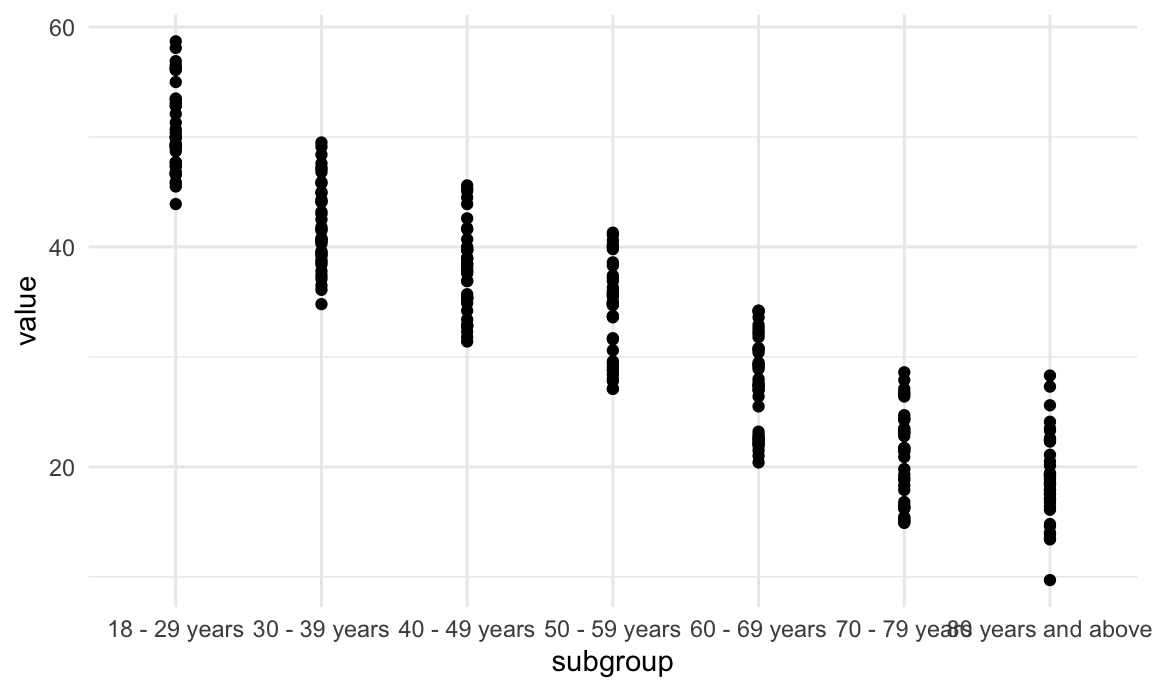
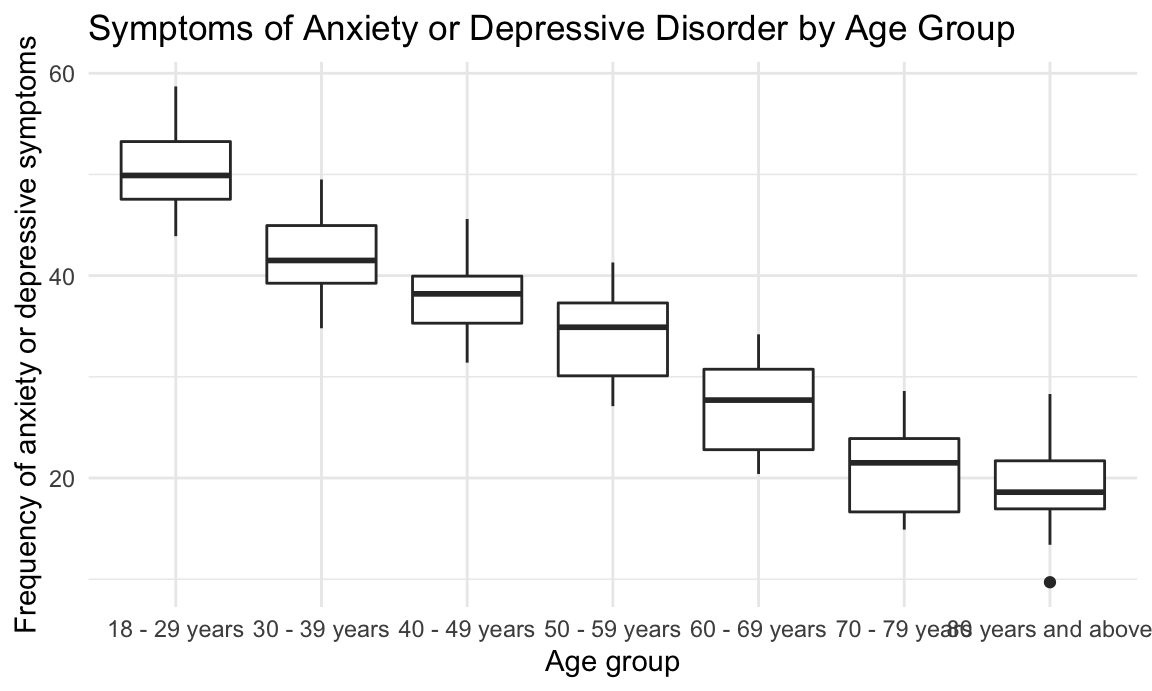
Updated plot

diff --git a/analysis_2.html b/analysis_2.html
@@ -353,8 +353,14 @@ anxiety_df</code></pre>
 ## # … with 291 more rows</code></pre>
 <p>We will build a crude model first with predictors: age, education, sex, and race. State is not included because that would give us 50 extra variables.</p>
 <pre class="r"><code>anxiety_df %&gt;% 
-  ggplot(aes(x = subgroup, y = value)) + geom_point()</code></pre>
-<pre><code>## Warning: Removed 28 rows containing missing values (geom_point).</code></pre>
+  ggplot(aes(x = subgroup, y = value)) + 
+  geom_boxplot() + 
+  labs(
+    title = &quot;Symptoms of Anxiety or Depressive Disorder by Age Group&quot;,
+    x = &quot;Age group&quot;,
+    y = &quot;Frequency of anxiety or depressive symptoms&quot;
+  )</code></pre>
+<pre><code>## Warning: Removed 28 rows containing non-finite values (stat_boxplot).</code></pre>
 <p><img src="analysis_2_files/figure-html/plot-1.png" width="90%" /></p>
 </div>
 
